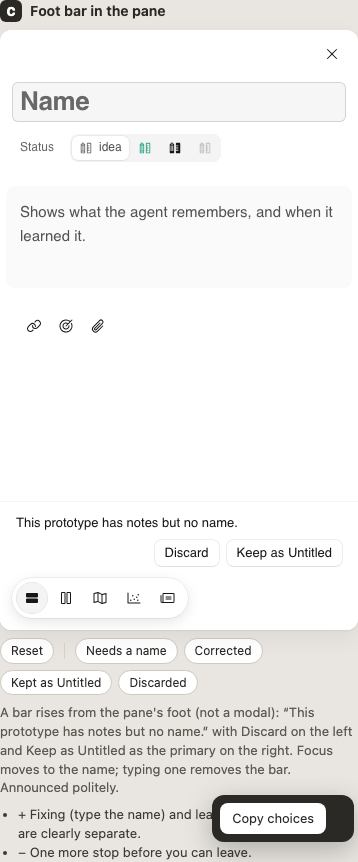
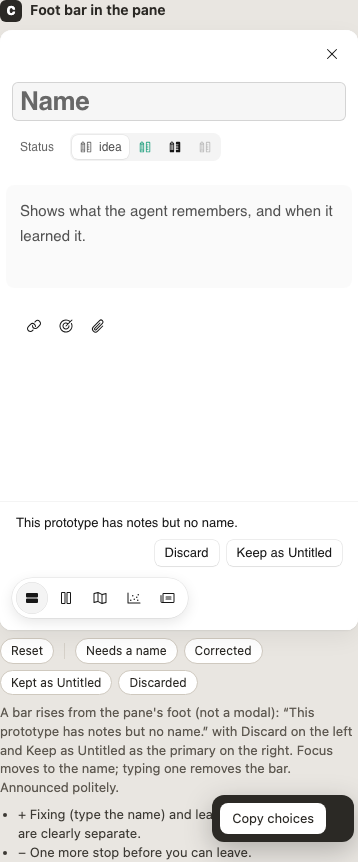
Jigs: Copy choices includes preselected decisions; DI-002 picker preview uncropped
Copy reads live state so data-default choices are copied without a
click; an explicit deselect persists. Policy overlays stay whole inside
their stages at 1440 and 390.

diff --git a/design/explorations/di-002-dialogs/index.html b/design/explorations/di-002-dialogs/index.html
@@ -47,7 +47,7 @@
 /* The live app positions dialogs against the viewport; inside a jig stage they are contained instead. */
 .jx-stage .ab-backdrop, .jx-stage .ab-dialog.ap, .jx-mini .ab-backdrop, .jx-mini .ab-dialog.ap { position: absolute; }
 .jx-stage .ab-dialog.ap, .jx-mini .ab-dialog.ap { max-height: calc(100% - 40px); }
-.jx-mini .ab-dialog.ap { top: 12%; }
+.jx-mini .ab-dialog.ap { top: 12%; max-width: calc(100% - var(--size-px-24)); }
 @media (max-width: 639px) {
   .jig-stage .ab-production .as-pane { width: 100% !important; }
   .jig-head, .jig-section { padding-left: 16px; padding-right: 16px; }
@@ -217,7 +217,8 @@
 .ap.jx-picker { width: var(--size-px-300); display: grid; gap: var(--size-px-2); }
 .jx-picker .jx-picker-find { margin: var(--size-px-2) var(--size-px-2) var(--size-px-4); height: var(--size-px-30); }
 .jx-picker button { display: flex !important; align-items: center; gap: var(--size-px-8) !important; }
-.jx-picker button span { overflow: hidden; text-overflow: ellipsis; white-space: nowrap; }
+.jx-picker button span { white-space: normal; text-wrap: pretty; }
+.ap.jx-picker { max-width: calc(100% - var(--size-px-16)); }
 .jx-picker button svg { flex-shrink: 0; color: var(--ap-ink-2); }
 .ap.jx-dialog.jx-cmd { top: var(--size-px-24); transform: translate(-50%, 0); padding: 0; gap: 0; }
 .jx-cmd-row { padding: var(--size-px-12) var(--size-px-56) var(--size-px-12) var(--size-px-12); border-bottom: var(--size-px-1) solid var(--ap-line); }
@@ -273,7 +274,7 @@
     <header><h4>Pickers</h4><span class="jx-members">Tests, Theory relationships, Add evidence, File in a theme, Unfile, Merge: choose</span><span class="jx-status" data-state="open">Open question</span></header>
     <div class="jx-pair">
       <figure><figcaption>Today: <b>modal</b></figcaption><div class="jig-stage jx-mini" data-mini="picker-today" data-faithful></div><p class="jx-cap">A centred list, away from the button and the field it fills.</p></figure>
-      <figure><figcaption>Proposed: <b>popover from the button</b></figcaption><div class="jig-stage jx-mini" data-mini="picker-new" data-proposed></div><p class="jx-cap">Anchored to the + that opened it, with a filter. Unfile is unchecking a theme in the same popover.</p></figure>
+      <figure><figcaption>Proposed: <b>popover from the button</b></figcaption><div class="jig-stage jx-mini" data-mini="picker-new" data-proposed></div><p class="jx-cap">Anchored to the “Add theory to test” button that opened it, with a filter. Unfile is unchecking a theme in the same popover.</p></figure>
     </div>
     <div class="jig-decision" data-decision="policy-pickers" data-question="Should every picker open as a popover from its own button, instead of a centred modal?" data-options="Yes|No, keep the modal|Other (note)"></div>
   </article>

diff --git a/design/explorations/_shell/jig.js b/design/explorations/_shell/jig.js
@@ -6,15 +6,16 @@
   const load = id => { try { return JSON.parse(localStorage.getItem(key(id))) || {}; } catch { return {}; } };
   const save = (id, v) => { try { localStorage.setItem(key(id), JSON.stringify(v)); } catch {} };
   const decisions = [...document.querySelectorAll(".jig-decision[data-decision]")];
+  const live = new Map();
   for (const el of decisions) {
-    const id = el.dataset.decision, state = load(id);
+    const id = el.dataset.decision, state = load(id); live.set(el, state);
     if (state.choice === undefined && el.dataset.default) state.choice = el.dataset.default;
     const q = document.createElement("div"); q.className = "jig-decision-q"; q.textContent = el.dataset.question || "Choose";
     const row = document.createElement("div"); row.className = "jig-choices"; row.setAttribute("role", "group"); row.setAttribute("aria-label", q.textContent);
     for (const option of (el.dataset.options || "").split("|")) {
       const b = document.createElement("button"); b.type = "button"; b.textContent = option;
       b.setAttribute("aria-pressed", String(state.choice === option));
-      b.onclick = () => { state.choice = state.choice === option ? undefined : option; save(id, state);
+      b.onclick = () => { state.choice = state.choice === option ? null : option; save(id, state);
         row.querySelectorAll("button").forEach(x => x.setAttribute("aria-pressed", String(x.textContent === state.choice))); };
       row.append(b);
     }
@@ -29,7 +30,7 @@
   const out = document.createElement("output"); out.setAttribute("aria-live", "polite");
   copy.onclick = async () => {
     const lines = [`# ${document.title}`, ""];
-    for (const el of decisions) { const s = load(el.dataset.decision);
+    for (const el of decisions) { const s = live.get(el);
       lines.push(`- ${el.dataset.decision} — ${el.dataset.question}: ${s.choice || "(no choice)"}${s.note ? ` — note: ${s.note}` : ""}`); }
     const text = lines.join("\n");
     try { await navigator.clipboard.writeText(text); out.textContent = "Copied"; } catch { console.log(text); out.textContent = "Logged to console"; }

diff --git a/design/explorations/di-002-dialogs/di002.js b/design/explorations/di-002-dialogs/di002.js
@@ -1044,8 +1044,11 @@
   const tetherTo = (app, trig, menu) => {
     const a = app.getBoundingClientRect(), r = trig.getBoundingClientRect();
     menu.style.top = r.bottom - a.top + 6 + "px";
-    menu.style.right = Math.max(8, a.right - r.right) + "px";
     app.append(menu); menu.setAttribute("data-open", ""); trig.setAttribute("aria-expanded", "true");
+    /* Right-align to the trigger, but keep the whole menu inside the visible stage (flip to left-aligned if needed). */
+    const v = app.parentElement.getBoundingClientRect(), w = menu.offsetWidth;
+    const lo = Math.max(a.left, v.left) + 8, hi = Math.min(a.right, v.right) - 8 - w;
+    menu.style.left = Math.min(Math.max(r.right - w, lo), Math.max(lo, hi)) - a.left + "px";
     if (r.bottom + 6 + menu.offsetHeight > a.bottom - 8) menu.style.top = Math.max(8, r.top - a.top - 6 - menu.offsetHeight) + "px";
   };
   const toastIn = (app, html) => { const t = el(`<div class="ap jx-toast" role="status" data-open>${html}</div>`); app.append(t); };
@@ -1077,7 +1080,8 @@
     },
     "picker-new"(app) {
       const trig = $("[aria-label='Add theory to test']", app);
-      const sc = $(".as-pane-scroll", app); sc.scrollTop += trig.getBoundingClientRect().top - sc.getBoundingClientRect().top - 60;
+      const sc = $(".as-pane-scroll", app); sc.style.paddingBottom = "var(--size-px-240)";
+      sc.scrollTop += trig.getBoundingClientRect().top - sc.getBoundingClientRect().top - 48;
       tetherTo(app, trig, el(`<div class="ap jx-menu jx-picker" role="dialog" aria-label="Tests"><input class="jx-input jx-picker-find" placeholder="Find a theory" aria-label="Find a theory">${TESTS.map(([t]) => `<button role="option">${SVG.target}<span>${esc(t)}</span></button>`).join("")}</div>`));
     },
     "retire-today"(app) {
